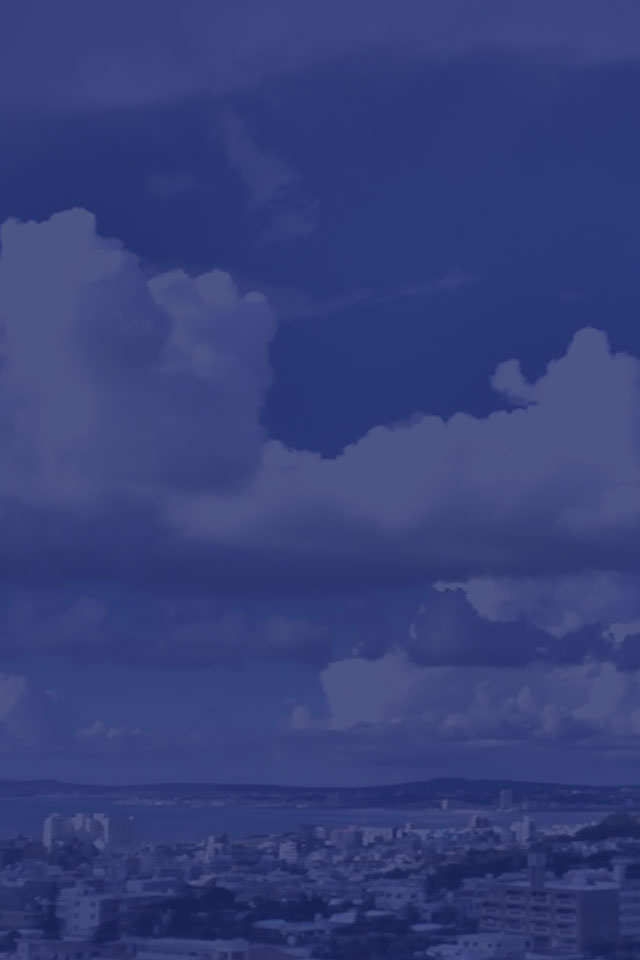
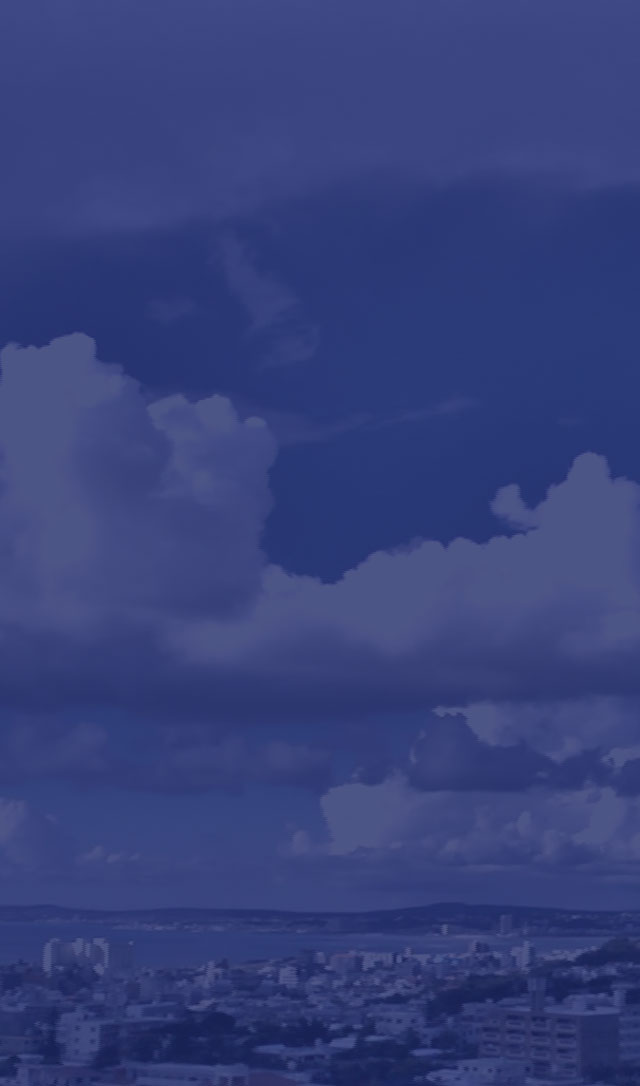
背景画像の高さを変更

diff --git a/assets/css/sp.css b/assets/css/sp.css
@@ -148,13 +148,12 @@ input, select {
 .Bg02 {
   width: 100%;
   height: 100%;
-  position: fixed;
   background-image: url("../images/bg_okinawa_04.jpg");
   z-index: -1; }
   @media only screen and (-webkit-min-device-pixel-ratio: 1.3), only screen and (min--moz-device-pixel-ratio: 1.3), only screen and (-o-min-device-pixel-ratio: 1.3/1), only screen and (min-resolution: 125dpi), only screen and (min-resolution: 1.3dppx) {
     .Bg02 {
       background-image: url("../images/bg_okinawa_04_2x.jpg");
-      background-size: 320px 480px; } }
+      background-size: 320px 543px; } }
 
 .Header {
   display: none; }

diff --git a/assets/scss/sp.scss b/assets/scss/sp.scss
@@ -9,8 +9,7 @@
 .Bg02 {
     width: 100%;
     height: 100%;
-    position: fixed;
-    @include retina-image("../images/bg_okinawa_04", 320px 480px, "jpg");
+    @include retina-image("../images/bg_okinawa_04", 320px 543px, "jpg");
     z-index: -1;
 }
 
